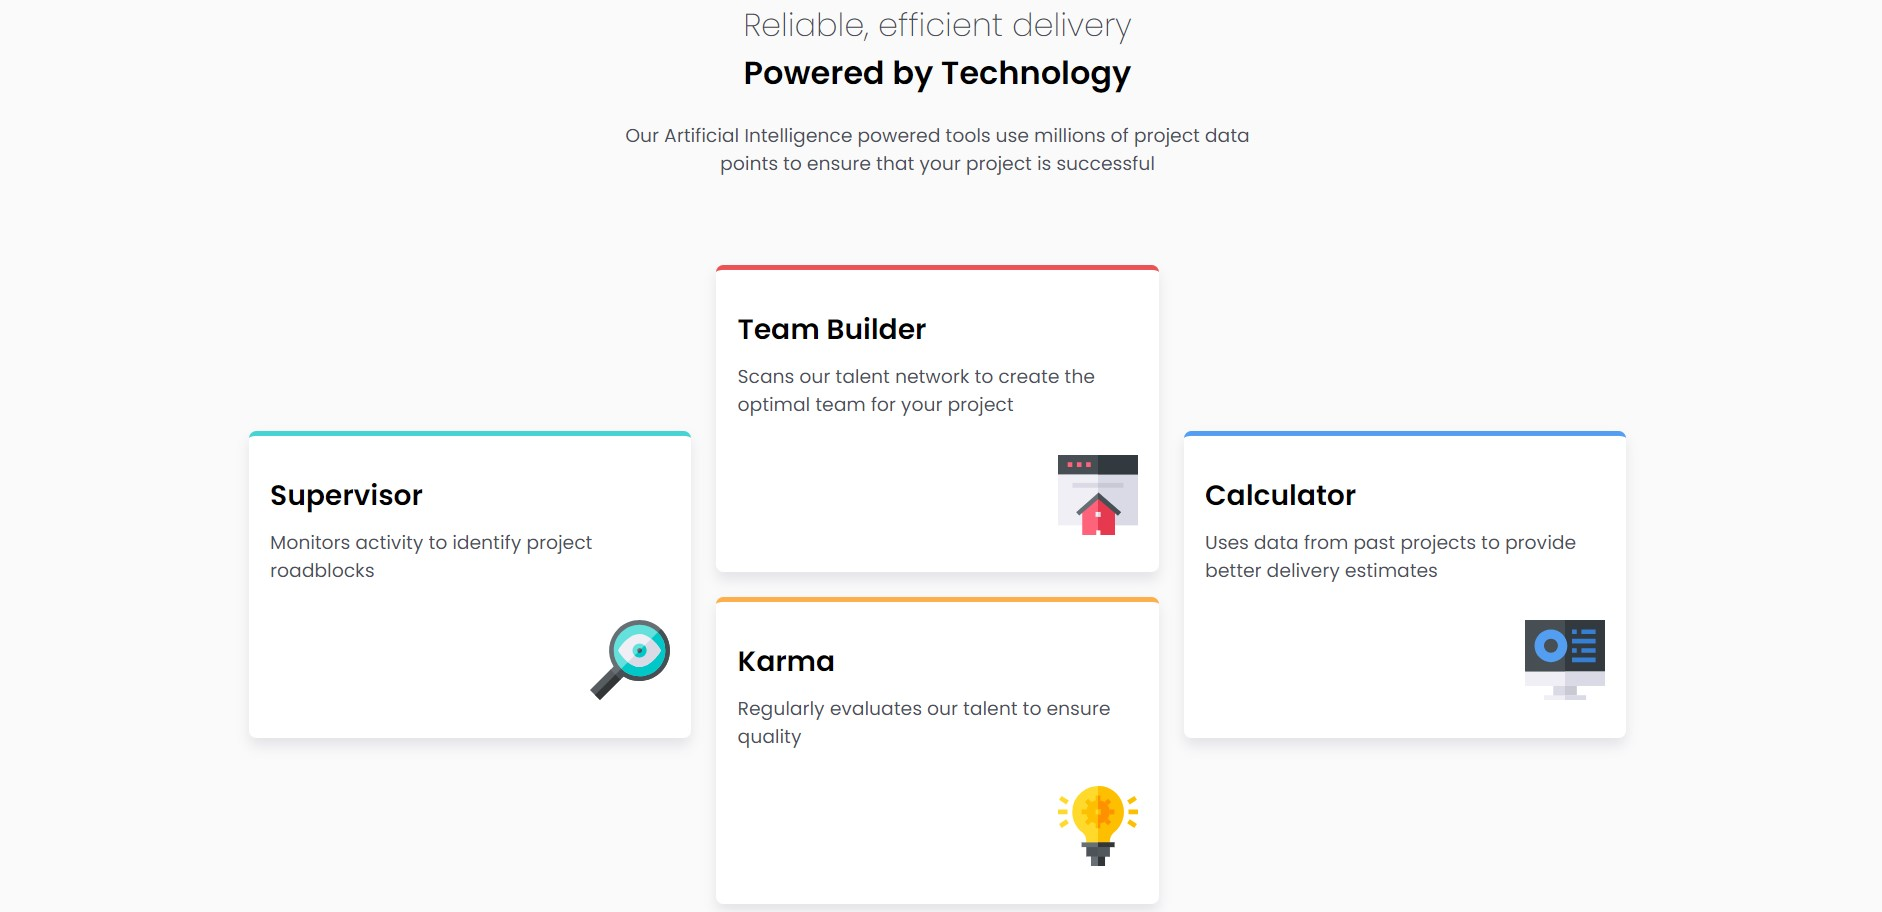
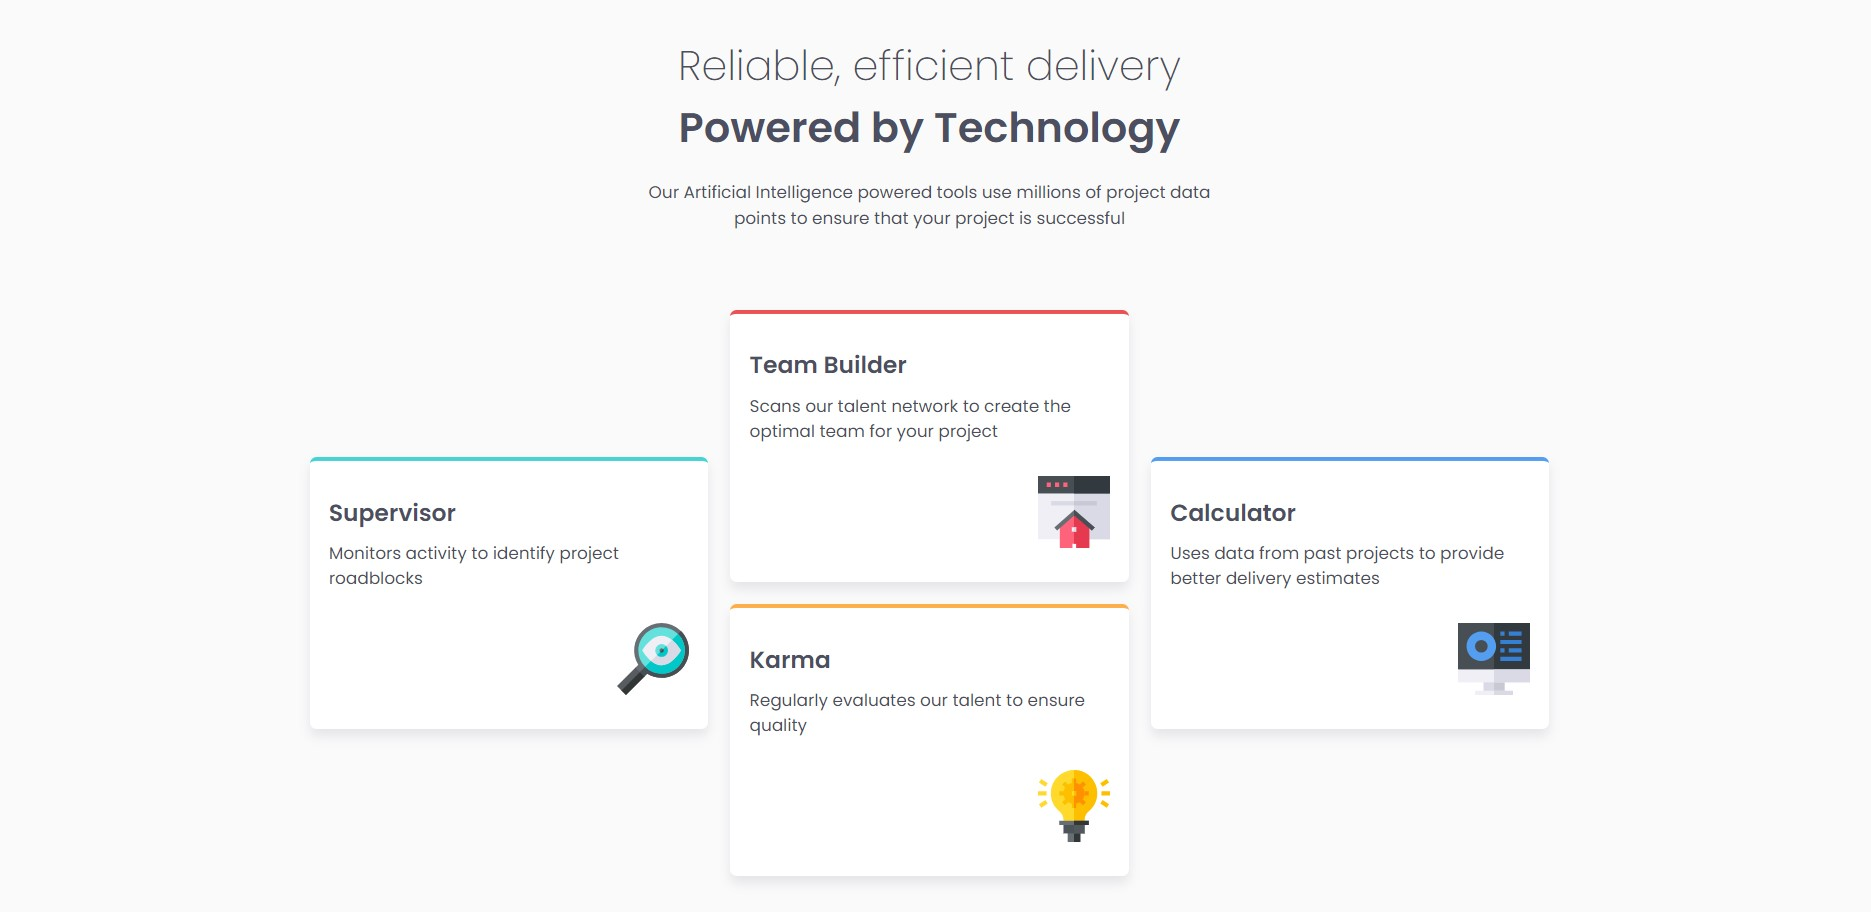
changes to sass to screenshot

diff --git a/src/stylesheet/styles.scss b/src/stylesheet/styles.scss
@@ -40,12 +40,18 @@ body {
         .subheader {
             font-weight: 200;
             font-size: 1.6rem;
+            @media only screen and (min-width: 1170px) {
+                font-size: 2.3rem;
+            }
         }
 
         h1 {
             font-size: 1.6rem;
             margin: 0 0 20px 0;
             color: $veryDarkBlue;
+            @media only screen and (min-width: 1170px) {
+                font-size: 2.3rem;
+            }
 
         }
     }
@@ -90,6 +96,7 @@ body {
             h2 {
                 margin: 0;
                 color: $veryDarkBlue;
+                font-size: 1.3rem;
             }
 
             img {

diff --git a/build/stylesheet/styles.css b/build/stylesheet/styles.css
@@ -25,10 +25,20 @@ body header .subheader {
   font-weight: 200;
   font-size: 1.6rem;
 }
+@media only screen and (min-width: 1170px) {
+  body header .subheader {
+    font-size: 2.3rem;
+  }
+}
 body header h1 {
   font-size: 1.6rem;
   margin: 0 0 20px 0;
   color: hsl(234, 12%, 34%);
+}
+@media only screen and (min-width: 1170px) {
+  body header h1 {
+    font-size: 2.3rem;
+  }
 }
 body .cards {
   display: flex;
@@ -71,6 +81,7 @@ body .cards .card {
 body .cards .card h2 {
   margin: 0;
   color: hsl(234, 12%, 34%);
+  font-size: 1.3rem;
 }
 body .cards .card img {
   margin-left: auto;
